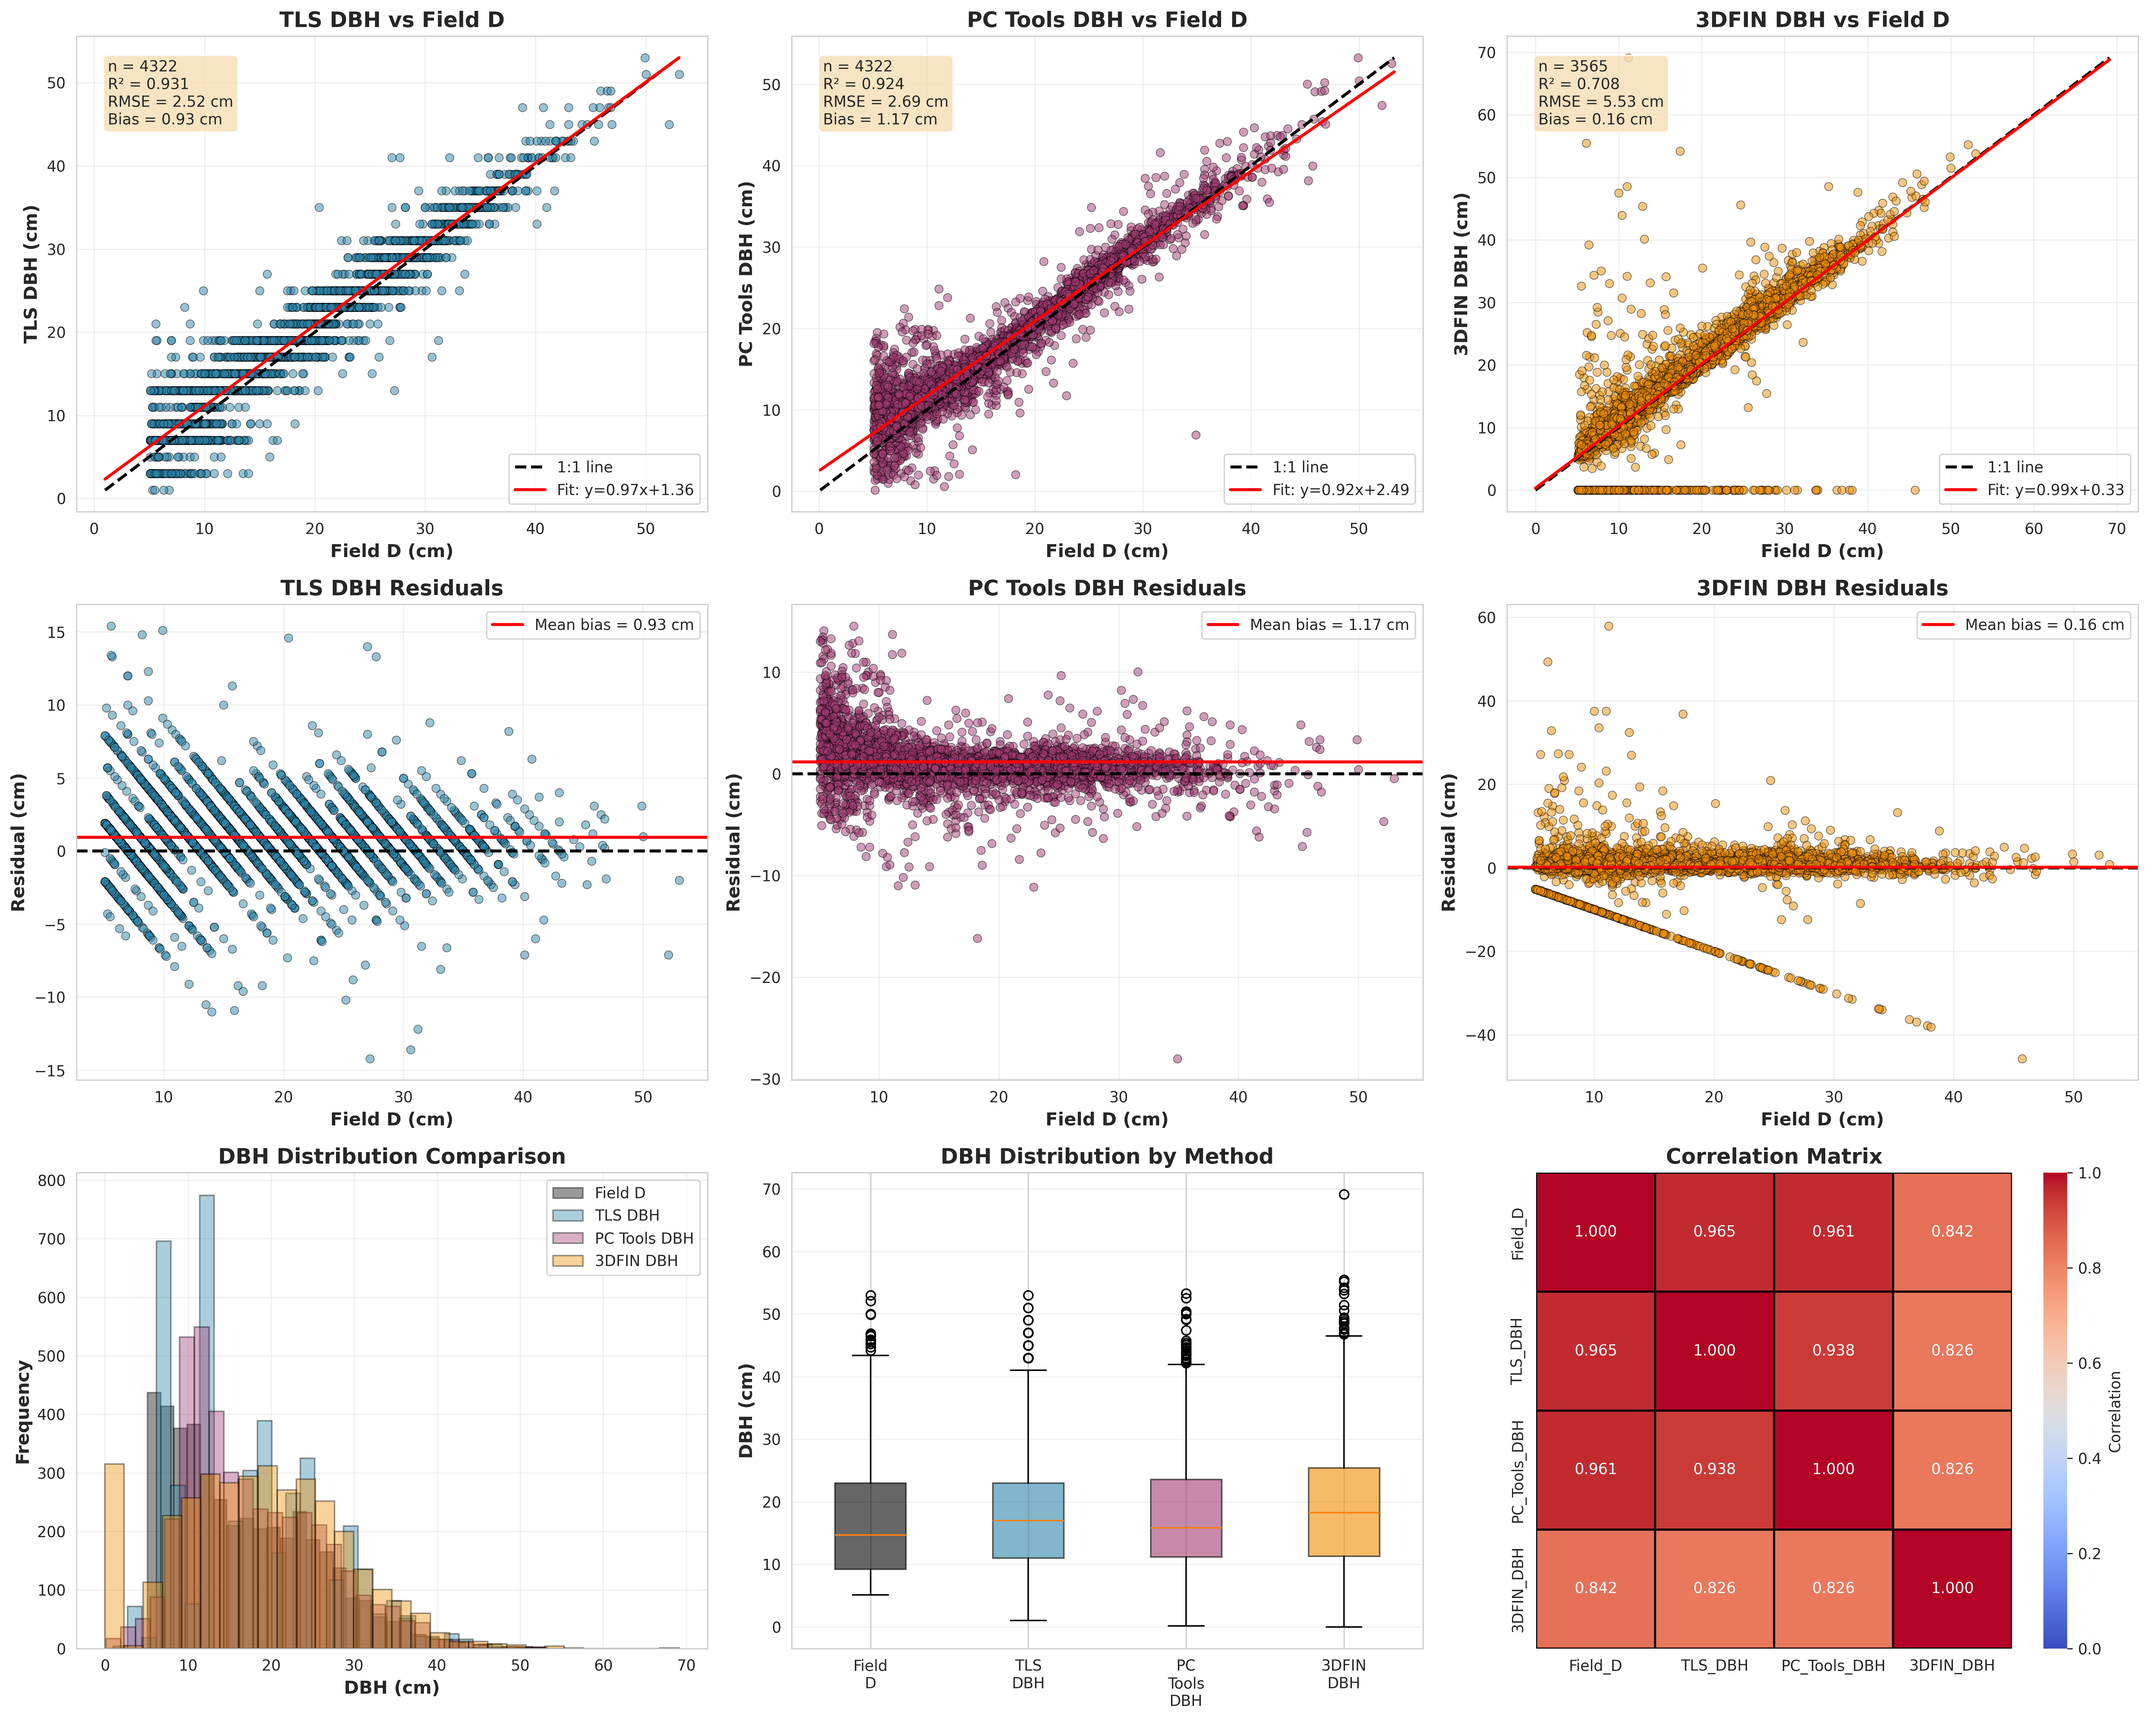
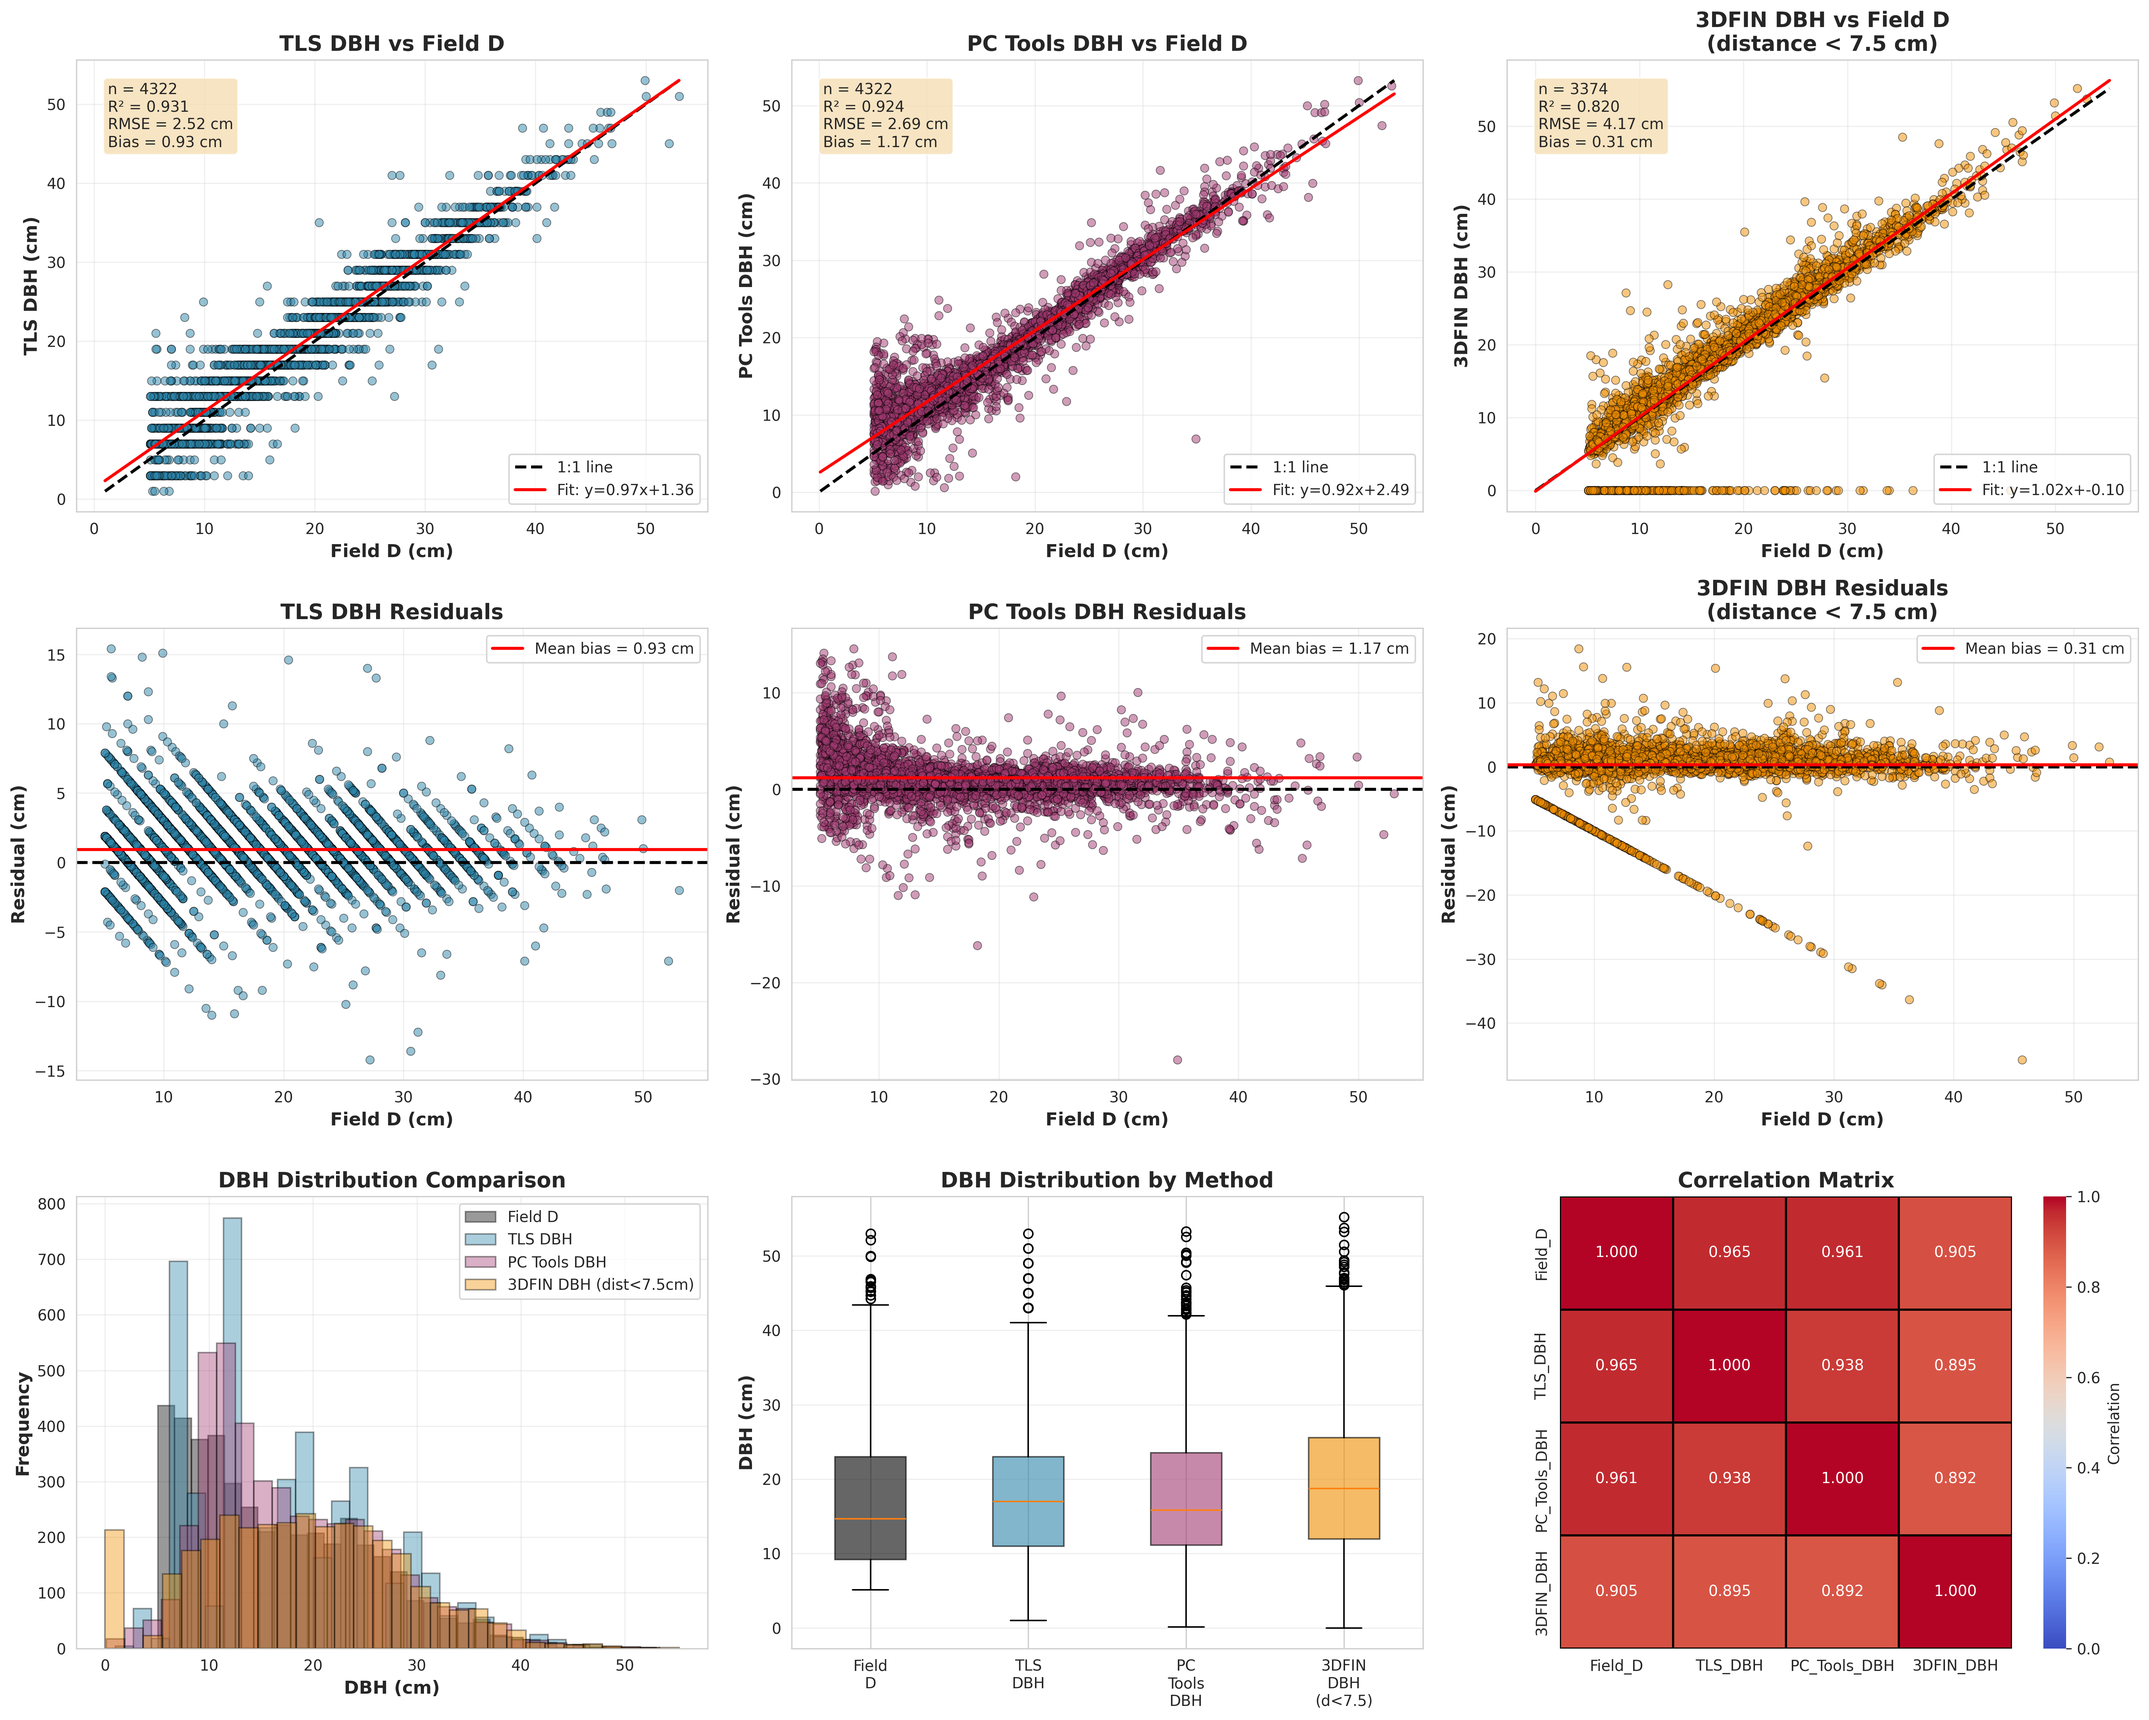
Apply 7.5cm distance filter to 3DFIN DBH measurements
- Filter 3DFIN data by distance_to_threedfin_cm < 7.5
- Distance correlates with measurement accuracy
- Filtered out 191 trees (5.4%) with poor matches
- Added filter notation to all plot titles and legends

Results improvement for 3DFIN DBH:
Before filter: R²=0.708, RMSE=5.53cm, n=3565
After filter:  R²=0.820, RMSE=4.17cm, n=3374

- Correlation improved from 0.842 to 0.906
- RMSE reduced by 1.37 cm (25% improvement)
- Bias reduced from 0.16 to 0.31 cm

TLS and PC Tools DBH results unchanged:
- TLS DBH: R²=0.931, RMSE=2.52cm (n=4322)
- PC Tools DBH: R²=0.924, RMSE=2.69cm (n=4322)

diff --git a/compare_dbh_methods.py b/compare_dbh_methods.py
@@ -29,6 +29,17 @@ df['threedfin_dbh_cm'] = df['threedfin_dbh'] * 100
 # Convert TLS_dbh from meters to cm
 df['TLS_dbh_cm'] = df['TLS_dbh'] * 100
 
+# IMPORTANT: Filter 3DFIN data based on distance threshold
+# Distance correlates with measurement accuracy - only keep close matches
+print(f"\nOriginal 3DFIN records: {df['threedfin_dbh_cm'].notna().sum()}")
+distance_threshold = 7.5  # cm
+threedfin_filtered = df['distance_to_threedfin_cm'] < distance_threshold
+
+# Apply distance filter to 3DFIN data only
+df.loc[~threedfin_filtered, 'threedfin_dbh_cm'] = np.nan
+print(f"3DFIN records after distance filter (<{distance_threshold} cm): {df['threedfin_dbh_cm'].notna().sum()}")
+print(f"Filtered out {(~threedfin_filtered & df['distance_to_threedfin_cm'].notna()).sum()} trees with distance >= {distance_threshold} cm")
+
 # Create a clean dataset with all four methods
 methods_df = df[['field_D', 'TLS_dbh_cm', 'dbh', 'threedfin_dbh_cm']].copy()
 methods_df.columns = ['Field_D', 'TLS_DBH', 'PC_Tools_DBH', '3DFIN_DBH']
@@ -87,7 +98,13 @@ for idx, (method, color) in enumerate(zip(methods_to_compare, colors), 1):
 
         ax.set_xlabel('Field D (cm)', fontsize=12, fontweight='bold')
         ax.set_ylabel(f'{method.replace("_", " ")} (cm)', fontsize=12, fontweight='bold')
-        ax.set_title(f'{method.replace("_", " ")} vs Field D', fontsize=14, fontweight='bold')
+
+        # Add distance filter note for 3DFIN
+        title = f'{method.replace("_", " ")} vs Field D'
+        if method == '3DFIN_DBH':
+            title += f'\n(distance < {distance_threshold} cm)'
+        ax.set_title(title, fontsize=14, fontweight='bold')
+
         ax.legend(loc='lower right')
         ax.grid(True, alpha=0.3)
 
@@ -111,7 +128,13 @@ for idx, (method, color) in enumerate(zip(methods_to_compare, colors), 4):
 
         ax.set_xlabel('Field D (cm)', fontsize=12, fontweight='bold')
         ax.set_ylabel('Residual (cm)', fontsize=12, fontweight='bold')
-        ax.set_title(f'{method.replace("_", " ")} Residuals', fontsize=14, fontweight='bold')
+
+        # Add distance filter note for 3DFIN
+        title = f'{method.replace("_", " ")} Residuals'
+        if method == '3DFIN_DBH':
+            title += f'\n(distance < {distance_threshold} cm)'
+        ax.set_title(title, fontsize=14, fontweight='bold')
+
         ax.legend()
         ax.grid(True, alpha=0.3)
 
@@ -120,7 +143,11 @@ ax = plt.subplot(3, 3, 7)
 for method, color in zip(['Field_D'] + methods_to_compare, ['black'] + colors):
     valid_values = methods_df[method].dropna()
     if len(valid_values) > 0:
-        ax.hist(valid_values, bins=30, alpha=0.4, label=method.replace('_', ' '),
+        # Add distance filter note for 3DFIN in legend
+        label = method.replace('_', ' ')
+        if method == '3DFIN_DBH':
+            label += f' (dist<{distance_threshold}cm)'
+        ax.hist(valid_values, bins=30, alpha=0.4, label=label,
                 color=color, edgecolor='black', linewidth=1)
 
 ax.set_xlabel('DBH (cm)', fontsize=12, fontweight='bold')
@@ -132,8 +159,14 @@ ax.grid(True, alpha=0.3)
 # 4. Box plot comparison
 ax = plt.subplot(3, 3, 8)
 box_data = [methods_df[col].dropna() for col in methods_df.columns]
-bp = ax.boxplot(box_data, tick_labels=[col.replace('_', '\n') for col in methods_df.columns],
-                patch_artist=True)
+# Add distance filter note for 3DFIN in box plot labels
+box_labels = []
+for col in methods_df.columns:
+    label = col.replace('_', '\n')
+    if col == '3DFIN_DBH':
+        label += f'\n(d<{distance_threshold})'
+    box_labels.append(label)
+bp = ax.boxplot(box_data, tick_labels=box_labels, patch_artist=True)
 
 # Color the boxes
 for patch, color in zip(bp['boxes'], ['black'] + colors):
